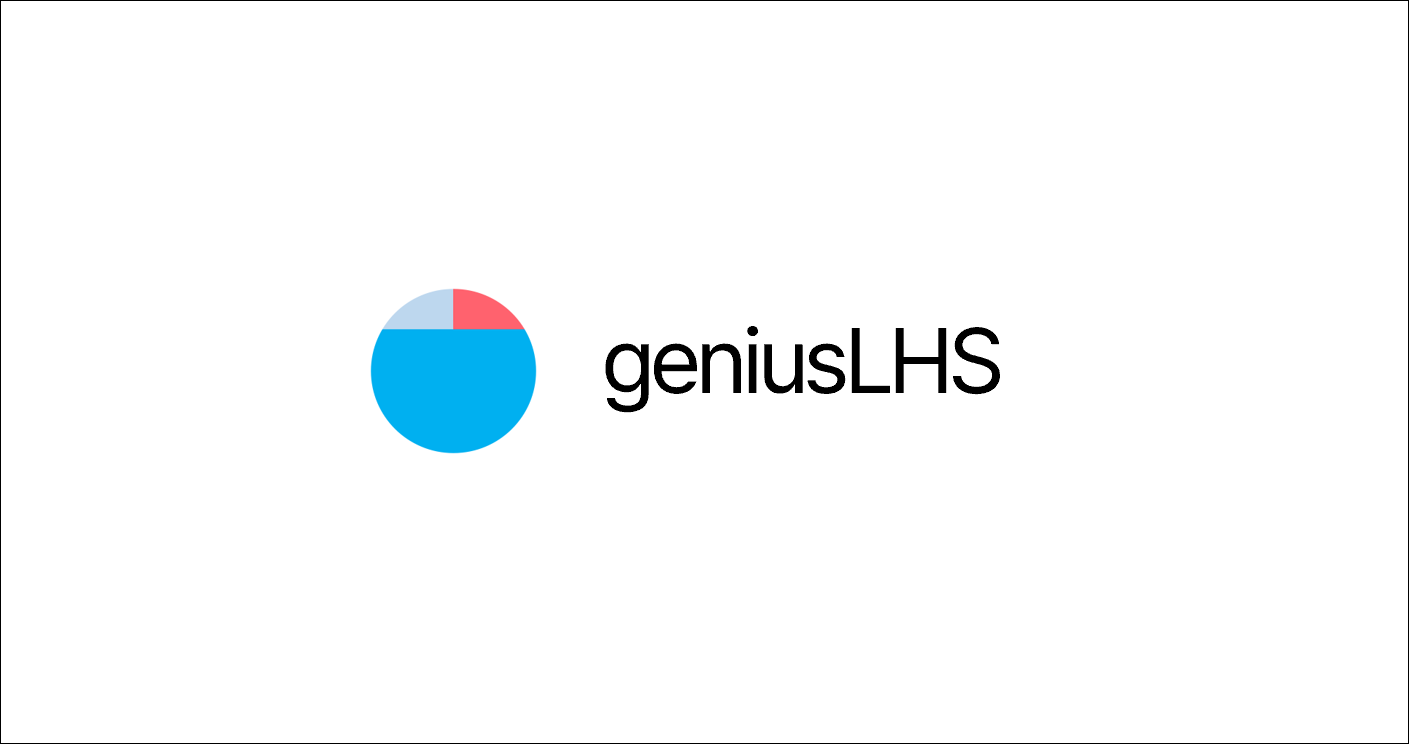
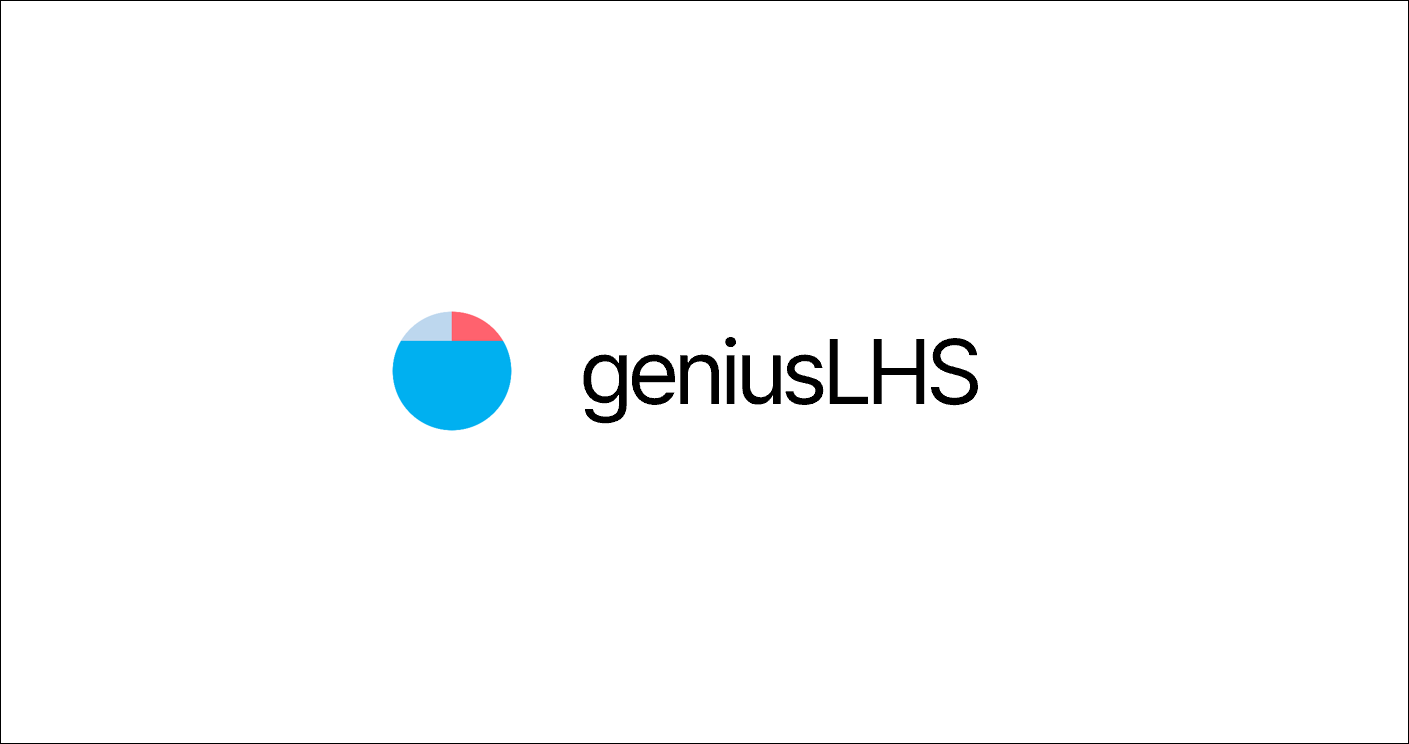
og:image content 변경

Changed region(s): [[0.2498, 0.371, 0.7182, 0.6183]]

diff --git a/src/app/layout.tsx b/src/app/layout.tsx
@@ -25,7 +25,7 @@ export default function RootLayout({ children }: { children: React.ReactNode }) 
         <meta property="og:site_name" content="geniusLHS" />
         <meta property="og:title" content="geniusLHS" />
         <meta property="og:description" content="My Projects, Blog, Activities" />
-        <meta property="og:image" content="" />
+        <meta property="og:image" content="https://github.com/geniusLHS/geniuslhs-blog/blob/main/public/image/geniuslhs-og.png?raw=true" />
       </head>
       <body>
         <div className="py-8 sm:py-12 font-sans px-4 bg-[#fdfdfd] min-h-screen">
